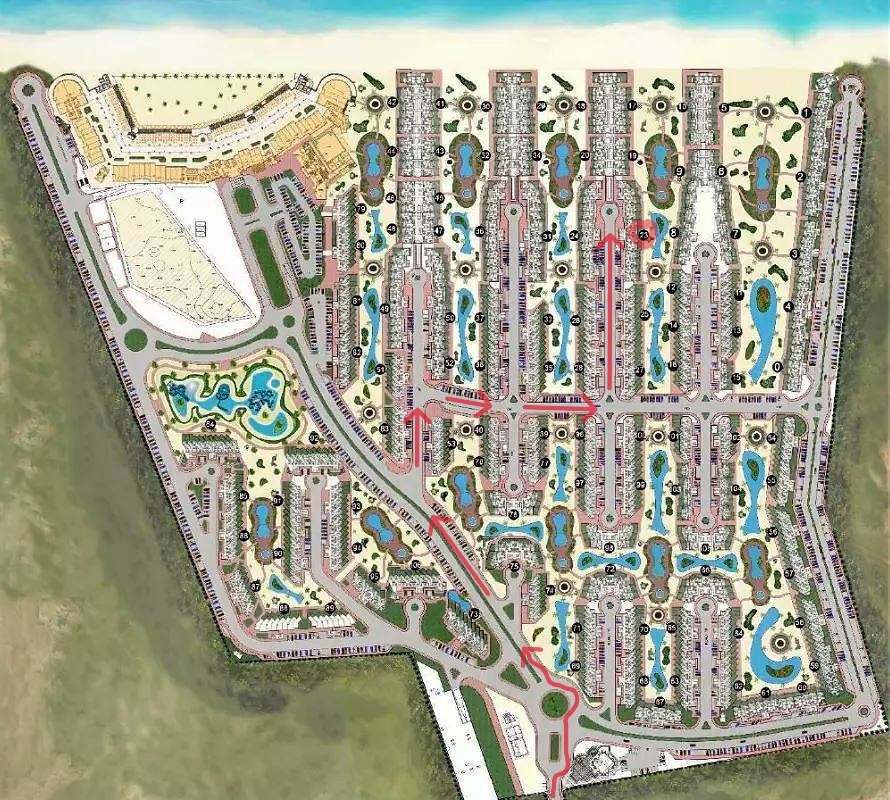
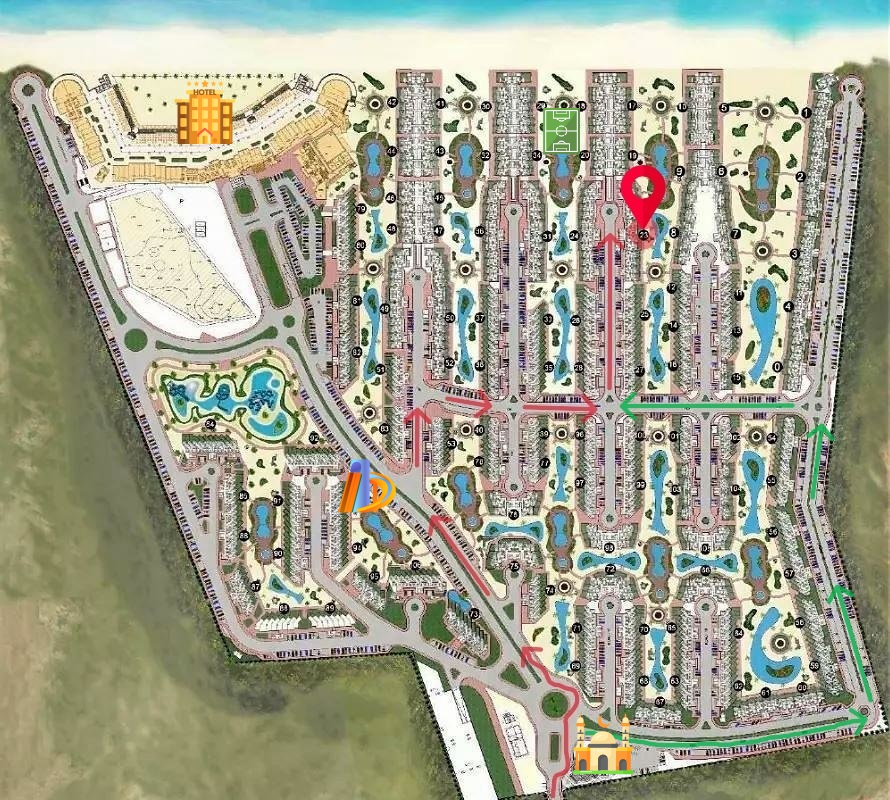
ch Deitals up

diff --git a/src/pages/ChaletDetailsPage.jsx b/src/pages/ChaletDetailsPage.jsx
@@ -59,6 +59,7 @@ export default function ChaletDetailsPage() {
   };
 
   const isDesktop = window.innerWidth >= 1024;
+  const currentMonth = new Date().getMonth() + 1;
 
   useEffect(() => {
     let chaletData = chaletsList.find((ch) => ch.num == chaletNum);
@@ -118,6 +119,7 @@ export default function ChaletDetailsPage() {
                 {chalet?.chaletImages?.map((chImg, index) => (
                   <img
                     src={chImg}
+                    loading="lazy"
                     key={index}
                     alt="chalet-details-img"
                     className={clsx(
@@ -136,26 +138,34 @@ export default function ChaletDetailsPage() {
                   <IoIosArrowBack className="text-lg md:text-2xl text-white transition-all duration-300 group-hover:-translate-x-0.5 group-hover:scale-105" />
                 </div>
                 {/*// is valid tag */}
-                <div
-                  className={clsx(
-                    `absolute z-10 top-2 right-2 text-sm rounded-full px-4 py-1 transition-opacity duration-300 group cursor-pointer hover:opacity-85 flex items-center gap-1`,
-                    sheetChaletData?.validList?.[0]?.from?.d === currDay
-                      ? tags.available.color
-                      : tags.reserved.color,
-                  )}
-                >
-                  <img
-                    src={
+                {sheetChaletData ? (
+                  <div
+                    className={clsx(
+                      `absolute z-10 top-2 right-2 text-sm rounded-full px-4 py-1 transition-opacity duration-300 group cursor-pointer hover:opacity-85 flex items-center gap-1`,
                       sheetChaletData?.validList?.[0]?.from?.d === currDay
-                        ? tags.available.icon
-                        : tags.reserved.icon
-                    }
-                    className="w-4 invert-100"
+                        ? tags.available.color
+                        : tags.reserved.color,
+                    )}
+                  >
+                    <img
+                      src={
+                        sheetChaletData?.validList?.[0]?.from?.d === currDay
+                          ? tags.available.icon
+                          : tags.reserved.icon
+                      }
+                      className="w-4 invert-100"
+                    />
+                    {sheetChaletData?.validList?.[0]?.from?.d === currDay
+                      ? tags.available.name
+                      : tags.reserved.name}
+                  </div>
+                ) : (
+                  <div
+                    className={clsx(
+                      `absolute z-10 top-2 right-2 rounded-full w-23 h-7 bg-neutral-200 skeleton`,
+                    )}
                   />
-                  {sheetChaletData?.validList?.[0]?.from?.d === currDay
-                    ? tags.available.name
-                    : tags.reserved.name}
-                </div>
+                )}
               </div>
               {/*//* Chalet images List */}
               <div
@@ -275,24 +285,99 @@ export default function ChaletDetailsPage() {
                   <h3 className="font-semibold text-lg sm:text-xl">
                     توفر الشالية
                   </h3>
-                  <div className="grid grid-cols-1 xl:grid-cols-2 gap-2 w-full">
-                    {sheetChaletData?.validList
-                      ?.concat(sheetChaletDataNextM?.validList)
-                      .map(({ from, to }, index) => (
-                        <div
-                          key={index}
-                          className="bg-white px-3 py-2 rounded-lg flex items-center justify-between gap-2"
-                        >
-                          <p className="text-green-700! font-semibold text-sm text-shadow-lg text-shadow-green-700/10">
-                            {from.d} {getMonthName(from.m)} - {to.d}{" "}
-                            {getMonthName(from.m)}{" "}
-                          </p>
-                          <p className="text-xs text-green-700! shrink-0">
-                            {handleNumbers("ليلة", "ليالي", to.d - from.d + 1)}
-                          </p>
+                  {sheetChaletData ? (
+                    <div className="grid grid-cols-1 xl:grid-cols-2 gap-2 w-full">
+                      {sheetChaletData?.validList
+                        ?.concat(sheetChaletDataNextM?.validList)
+                        .map(({ from, to }, index) => (
+                          <div
+                            key={index}
+                            className="bg-white px-3 py-2 rounded-lg flex items-center justify-between gap-2"
+                          >
+                            <p className="text-green-700! font-semibold text-sm text-shadow-lg text-shadow-green-700/10">
+                              {from.d} {getMonthName(from.m)} - {to.d}{" "}
+                              {getMonthName(from.m)}{" "}
+                            </p>
+                            <p className="text-xs text-green-700! shrink-0">
+                              {handleNumbers(
+                                "ليلة",
+                                "ليالي",
+                                to.d - from.d + 1,
+                              )}
+                            </p>
+                          </div>
+                        ))}
+                    </div>
+                  ) : (
+                    <div className="grid grid-cols-1 xl:grid-cols-2 gap-2 w-full">
+                      {Array(4)
+                        .fill(null)
+                        .map((_, index) => (
+                          <div
+                            key={index}
+                            className="bg-neutral-200 skeleton h-10 rounded-lg"
+                          />
+                        ))}
+                    </div>
+                  )}
+                </div>
+                {/*//* calendar valid time */}
+                <div className="w-full flex flex-col gap-5 px-7 py-4">
+                  <h3 className="font-semibold text-lg sm:text-xl">
+                    تقويم التوفر
+                  </h3>
+
+                  {[currentMonth, currentMonth + 1].map((month) => {
+                    const days = getNumOfDays(new Date(2026, currentMonth - 1));
+
+                    return (
+                      <div key={month} className="space-y-3">
+                        <h4 className="font-bold text-primary-600">
+                          {getMonthName(month)} - {month}
+                        </h4>
+
+                        <div className="grid grid-cols-7 sm:grid-cols-8 md:grid-cols-10 lg:grid-cols-12 gap-2">
+                          {Array.from({ length: days }, (_, i) => {
+                            const day = i + 1;
+
+                            const isAvailable = [
+                              ...(sheetChaletData?.validList ?? []),
+                              ...(sheetChaletDataNextM?.validList ?? []),
+                            ].some(
+                              ({ from, to }) =>
+                                from.m === month &&
+                                day >= from.d &&
+                                day <= to.d,
+                            );
+
+                            const isToday =
+                              month === new Date().getMonth() + 1 &&
+                              day === new Date().getDate();
+
+                            return (
+                              <div
+                                key={day}
+                                className={clsx(
+                                  "aspect-square rounded-lg flex items-center justify-center text-sm font-bold transition-all",
+                                  sheetChaletData
+                                    ? "opacity-100"
+                                    : " skeleton bg-neutral-200 text-neutral-200!",
+                                  isAvailable
+                                    ? "bg-green-500 text-white"
+                                    : "bg-neutral-100 text-neutral-400",
+                                  isToday &&
+                                    sheetChaletData &&
+                                    "ring-2 ring-primary-500 ring-offset-2",
+                                )}
+                              >
+                                {day}
+                              </div>
+                            );
+                          })}
                         </div>
-                      ))}
-                  </div>
+                      </div>
+                    );
+                  })}
                 </div>
               </div>
               {/*//* Ch Price and buttons */}
@@ -391,12 +476,12 @@ export default function ChaletDetailsPage() {
 
                     <TransformComponent
                       wrapperClass="!w-full !h-full"
-                      contentClass="!w-full"
+                      contentClass="!w-full !h-full"
                     >
                       <img
                         src={chalet.locationImg}
                         alt="location"
-                        className="w-full object-cover select-none"
+                        className="w-full h-full object-cover select-none"
                         draggable={false}
                       />
                     </TransformComponent>
@@ -425,7 +510,7 @@ import { pestAdvList } from "../constants/advantages";
 import { LuCircleDotDashed } from "react-icons/lu";
 import { useSheetChaletsList } from "../store";
 import { date } from "yup";
-import { getMonthName } from "../utils/dateHelpers";
+import { getMonthName, getNumOfDays } from "../utils/dateHelpers";
 import { handleNumbers } from "../utils/textFormate";
 
 function ChHeroSec() {

diff --git a/src/constants/chalets.js b/src/constants/chalets.js
@@ -41,22 +41,6 @@ import beachViewIcon from "../assets/icons/chalets/tags/beachView.png";
 import poolViewIcon from "../assets/icons/chalets/tags/poolView.png";
 import gardenViewIcon from "../assets/icons/chalets/tags/gardenView.png";
 
-import chaletImg1 from "../assets/images/chalets/1.png";
-import chaletImg2 from "../assets/images/chalets/2.png";
-import chaletImg3 from "../assets/images/chalets/3.png";
-import chaletImg4 from "../assets/images/chalets/4.jpg";
-import chaletImg5 from "../assets/images/chalets/5.jpg";
-import chaletImg6 from "../assets/images/chalets/6.jpg";
-import chaletImg7 from "../assets/images/chalets/7.jpg";
-import chaletImg8 from "../assets/images/chalets/8.jpg";
-
-import chDetailsImg1 from "../assets/images/chalets-details/chDetailsImg1.jpg";
-import chDetailsImg2 from "../assets/images/chalets-details/chDetailsImg2.jpg";
-import chDetailsImg3 from "../assets/images/chalets-details/chDetailsImg3.jpg";
-import chDetailsImg4 from "../assets/images/chalets-details/chDetailsImg4.jpg";
-import chDetailsImg5 from "../assets/images/chalets-details/chDetailsImg5.jpg";
-import chDetailsImg6 from "../assets/images/chalets-details/chDetailsImg6.jpg";
-
 import area48 from "../assets/icons/areas/studio.png";
 import area75 from "../assets/icons/areas/2rooms.png";
 import area96 from "../assets/icons/areas/3rooms.png";

diff --git a/src/components/ChaletCard.jsx b/src/components/ChaletCard.jsx
@@ -41,6 +41,7 @@ export default function ChaletCard({ ch }) {
         <div className="relative h-72 overflow-hidden">
           <img
             src={ch.coverImg}
+            loading="lazy"
             className="w-full h-full object-cover group-hover:scale-110 transition-transform duration-700"
             alt="chalet-cover-img"
           />
